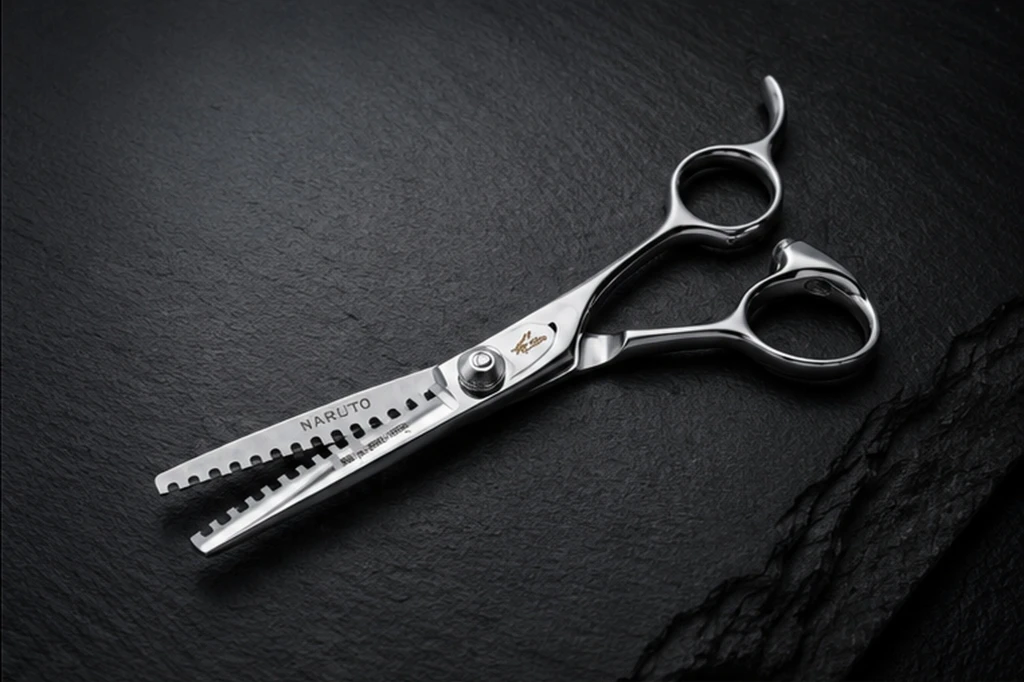
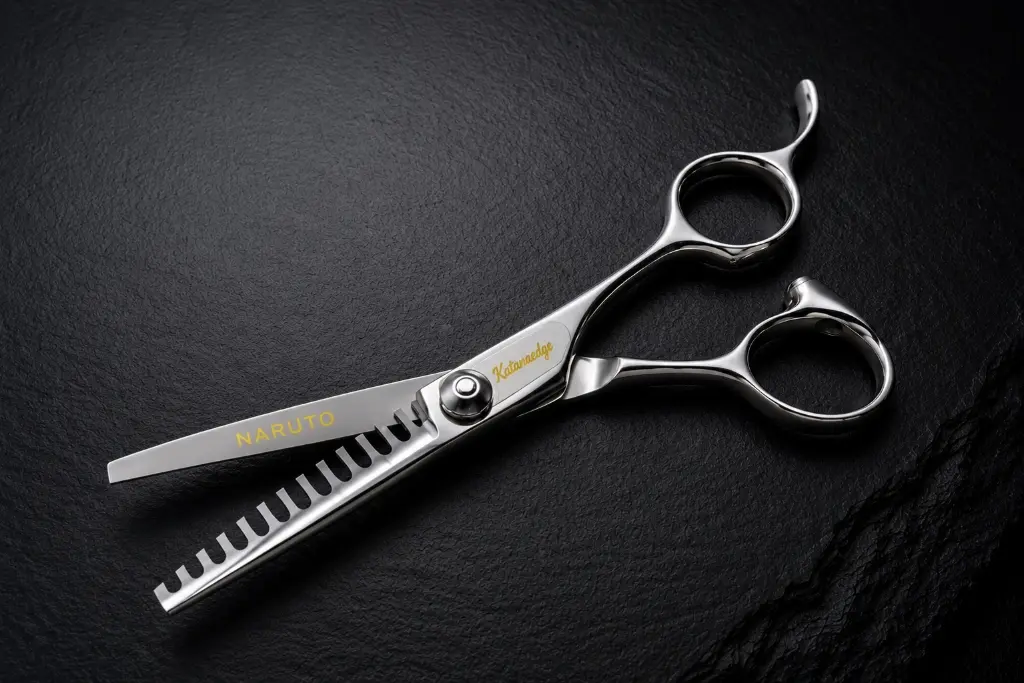
feat: add product videos and update product definitions in library

diff --git a/src/lib/products.ts b/src/lib/products.ts
@@ -8,6 +8,12 @@ import microslitImg2 from "@/assets/microslit/microslit-2.png";
 import microslitImg3 from "@/assets/microslit/microslit-3.png";
 import microslitImg4 from "@/assets/microslit/microslit-4.png";
 import microslitVideo from "@/assets/microslit/microslit.mp4";
+import thunderVideo from "@/assets/thunder/video.mp4";
+import doubleSwivelVideo from "@/assets/double-swivel/video.mp4";
+import narutoVideo from "@/assets/naruto/video.mp4";
+import karakuriVideo from "@/assets/karakuri/video.mp4";
+import bambooVideo from "@/assets/bamboo/video.mp4";
+import bambooThinningVideo from "@/assets/bamboo-thinning/video.mp4";
 import { createServerFn } from "@tanstack/react-start";
 import { z } from "zod";
 
@@ -142,6 +148,7 @@ export const products: Product[] = [
     price: 679.99,
     image: "/products/thunder/main.webp",
     gallery: ["/products/thunder/main.webp"],
+    video: thunderVideo,
     rating: 0,
     reviewCount: 0,
     shortDescription: "Heavy-duty slicing shears optimized for thick textures and raw power.",
@@ -162,6 +169,7 @@ export const products: Product[] = [
     price: 879.99,
     image: "/products/double-swivel/main.webp",
     gallery: ["/products/double-swivel/main.webp"],
+    video: doubleSwivelVideo,
     rating: 0,
     reviewCount: 0,
     shortDescription: "Double-articulating swivel-handle shears offering maximum ergonomic comfort and wrist relief.",
@@ -182,6 +190,7 @@ export const products: Product[] = [
     price: 579.99,
     image: "/products/naruto/main.webp",
     gallery: ["/products/naruto/main.webp"],
+    video: narutoVideo,
     rating: 0,
     reviewCount: 0,
     shortDescription: "Ergonomic thinning shears with custom circular cutouts for smooth blending.",
@@ -201,6 +210,7 @@ export const products: Product[] = [
     price: 719.99,
     image: "/products/karakuri/main.webp",
     gallery: ["/products/karakuri/main.webp"],
+    video: karakuriVideo,
     rating: 0,
     reviewCount: 0,
     shortDescription: "Professional offsets shears featuring a tactical matte black handle coating.",
@@ -222,6 +232,7 @@ export const products: Product[] = [
     price: 519.99,
     image: "/products/bamboo/main.webp",
     gallery: ["/products/bamboo/main.webp"],
+    video: bambooVideo,
     rating: 0,
     reviewCount: 0,
     shortDescription: "Classic straight shears fitted with a green-jewel tension adjuster.",
@@ -243,6 +254,7 @@ export const products: Product[] = [
     price: 419.99,
     image: "/products/bamboo-thinning/main.webp",
     gallery: ["/products/bamboo-thinning/main.webp"],
+    video: bambooThinningVideo,
     rating: 0,
     reviewCount: 0,
     shortDescription: "30 Teeth: Specifically crafted for efficient bulk removal, these shears offer quick and controlled thinning.",